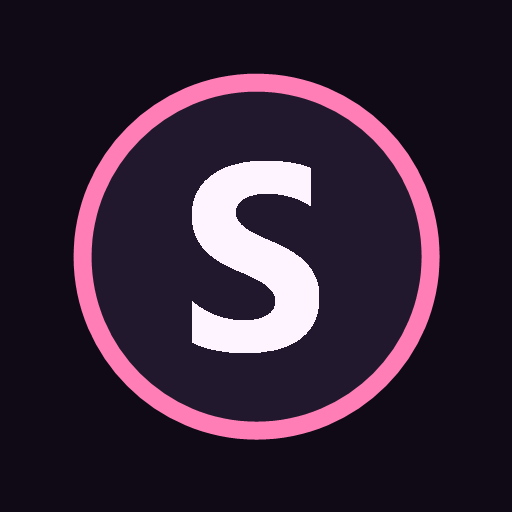
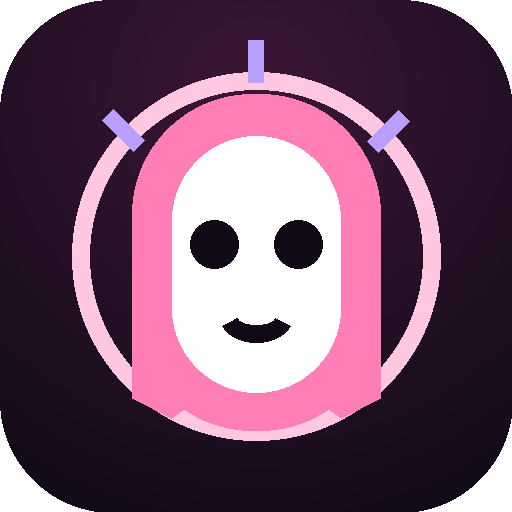
Rename to Spirits Night and polish selection UI

diff --git a/app.js b/app.js
@@ -170,7 +170,7 @@ function screen(kicker, title) {
   $app.textContent = "";
   const root = h("section", { className: "screen" });
   root.append(
-    h("div", { className: "brand", text: "SPIRITS" }),
+    h("div", { className: "brand", text: "SPIRITS NIGHT" }),
     h("div", { className: "kicker", text: kicker }),
     h("h1", { className: "title", text: title })
   );
@@ -304,7 +304,7 @@ function finishIntro() {
 
 function showIntro() {
   state = freshState();
-  const root = screen("κεντρικός συντονιστής", "Spirits");
+  const root = screen("κεντρικός συντονιστής", "Spirits Night");
   root.append(
     h("h2", { className: "title hero-title", text: "Game Master Mode" }),
     paragraph("Βάλε το iPad στη μέση. Ο πρώτος παίκτης που πεθαίνει γίνεται Game Master και από εδώ ελέγχει δολοφόνους, ειδικούς ρόλους, νύχτα και ψηφοφορίες.", "center"),
@@ -355,8 +355,9 @@ function showSetupCounts() {
 
 function showPlayerSelection() {
   const root = screen("επιλογή παρέας", "Ποιοι παίζουν;");
-  root.append(pill(`${state.gamePlayers.length} / ${state.playerCount} επιλεγμένοι`));
-  root.append(grid(roster.map(player => playerCard(player, {
+  const selectedCount = state.gamePlayers.length;
+  const ready = selectedCount === state.playerCount;
+  const selectionGrid = grid(roster.map(player => playerCard(player, {
     selected: inList(state.gamePlayers, player),
     onClick: () => {
       if (inList(state.gamePlayers, player)) removeFrom(state.gamePlayers, player);
@@ -364,11 +365,42 @@ function showPlayerSelection() {
       else return toast(`Έχεις ήδη διαλέξει ${state.playerCount} παίκτες.`);
       showPlayerSelection();
     }
-  }))));
-  root.append(actions(button("Συνέχεια", () => {
-    if (state.gamePlayers.length !== state.playerCount) return toast(`Διάλεξε ακριβώς ${state.playerCount} παίκτες.`);
-    showGameMasterSelection();
   })));
+  selectionGrid.classList.add("selection-grid");
+  root.append(h("section", { className: "selection-layout" }, [
+    h("aside", { className: "selection-control panel" }, [
+      h("div", { className: "label", text: "SETUP" }),
+      h("div", { className: "selection-count", text: `${selectedCount} / ${state.playerCount}` }),
+      h("div", { className: "selection-note", text: ready ? "Έτοιμο. Όλοι οι παίκτες επιλέχθηκαν." : `Διάλεξε ακόμα ${state.playerCount - selectedCount}.` }),
+      counterBlock("Παίκτες", state.playerCount, () => {
+        state.playerCount = Math.max(5, state.playerCount - 1);
+        while (state.gamePlayers.length > state.playerCount) state.gamePlayers.pop();
+        state.killerCount = Math.max(1, Math.min(state.killerCount, maxKillers()));
+        showPlayerSelection();
+      }, () => {
+        state.playerCount = Math.min(roster.length, state.playerCount + 1);
+        state.killerCount = Math.max(1, Math.min(state.killerCount, maxKillers()));
+        showPlayerSelection();
+      }),
+      counterBlock("Δολοφόνοι", state.killerCount, () => {
+        state.killerCount = Math.max(1, state.killerCount - 1);
+        showPlayerSelection();
+      }, () => {
+        const max = maxKillers();
+        if (state.killerCount >= max) return toast(`Maximum ${max} δολοφόνοι για ${state.playerCount} παίκτες.`);
+        state.killerCount += 1;
+        showPlayerSelection();
+      }, "var(--danger)"),
+      actions(button("Συνέχεια", () => {
+        if (state.gamePlayers.length !== state.playerCount) return toast(`Διάλεξε ακριβώς ${state.playerCount} παίκτες.`);
+        showGameMasterSelection();
+      }))
+    ]),
+    h("div", { className: "selection-list" }, [
+      pill(`${selectedCount} / ${state.playerCount} επιλεγμένοι`),
+      selectionGrid
+    ])
+  ]));
 }
 
 function showGameMasterSelection() {
@@ -507,7 +539,7 @@ function showDashboard() {
     button("Νύχτα", showNightStart),
     button("Ψηφοφορία ημέρας", startDayVoting, "secondary"),
     button("Χειροκίνητη αποχώρηση", showManualElimination, "secondary"),
-    button("Test voice", () => speak("Spirits voice test. Alex voted Billy."), "ghost")
+    button("Test voice", () => speak("Spirits Night voice test."), "ghost")
   ));
   addHistory(root);
 }
@@ -1023,7 +1055,7 @@ function showPlacements() {
     .reverse()
     .filter(entry => !finalPlayers.some(player => player.name === entry.name));
   const root = screen("placements", "Τελική κατάταξη");
-  root.append(h("div", { className: "placement-subtitle", text: "Spirits: Final Files" }));
+  root.append(h("div", { className: "placement-subtitle", text: "Spirits Night: Final Files" }));
   playSound(state.lastVictorySound || "spirits");
 
   const board = h("section", { className: "placements-board" });

diff --git a/styles.css b/styles.css
@@ -14,7 +14,7 @@
 * { box-sizing: border-box; -webkit-tap-highlight-color: transparent; }
 html, body { margin: 0; min-height: 100%; background: var(--bg); color: var(--ink); font-family: Inter, -apple-system, BlinkMacSystemFont, "Segoe UI", sans-serif; }
 body { padding: env(safe-area-inset-top) env(safe-area-inset-right) env(safe-area-inset-bottom) env(safe-area-inset-left); }
-button { font: inherit; }
+button { font: inherit; appearance: none; -webkit-appearance: none; touch-action: manipulation; }
 
 #app { min-height: 100svh; background: radial-gradient(circle at 50% 0%, rgba(255,126,182,.18), transparent 34%), var(--bg); }
 .screen {
@@ -23,7 +23,6 @@ button { font: inherit; }
   min-height: 100svh;
   margin: 0 auto;
   padding: 22px 18px 30px;
-  animation: fadeIn .28s ease both;
   overflow: hidden;
   isolation: isolate;
 }
@@ -103,7 +102,6 @@ button { font: inherit; }
 
 .actions { display: grid; gap: 12px; margin-top: 14px; }
 .btn { position: relative; overflow: hidden; width: 100%; min-height: 52px; border: 0; border-radius: 14px; padding: 12px 16px; font-weight: 900; color: #1f0f1d; background: var(--pink); box-shadow: 0 10px 22px var(--shadow); }
-.btn:active { transform: scale(.98); }
 .btn.secondary { color: var(--ink); background: var(--panel2); border: 1px solid var(--lilac); }
 .btn.ghost { color: var(--muted); background: transparent; border: 1px solid var(--panel2); box-shadow: none; }
 .counter { margin: 14px 0; }
@@ -111,6 +109,16 @@ button { font: inherit; }
 .counter-number { margin: 8px 0 10px; padding: 14px 0; text-align: center; font-size: 52px; font-weight: 900; border-radius: 18px; background: var(--panel); border: 1px solid currentColor; }
 .counter-controls { display: flex; justify-content: center; gap: 10px; }
 .small { width: 56px; min-height: 46px; border-radius: 12px; border: 1px solid var(--lilac); background: var(--panel2); color: var(--ink); font-size: 24px; font-weight: 900; }
+
+.selection-layout { display: grid; grid-template-columns: minmax(230px, 300px) minmax(0, 1fr); gap: 12px; align-items: start; }
+.selection-control { position: sticky; top: max(12px, env(safe-area-inset-top)); margin: 10px 0; border-color: rgba(255,126,182,.5); background: linear-gradient(180deg, rgba(54,37,68,.94), rgba(34,24,45,.94)); }
+.selection-control .label { color: var(--pink); font-size: 12px; font-weight: 900; letter-spacing: .1em; }
+.selection-control .counter { margin: 12px 0; }
+.selection-control .counter-number { font-size: 38px; padding: 10px 0; }
+.selection-count { margin-top: 8px; font-size: clamp(42px, 10vw, 64px); line-height: .95; font-weight: 1000; color: var(--mint); text-align: center; text-shadow: 0 0 22px rgba(137,238,196,.28); }
+.selection-note { min-height: 38px; margin: 8px 0 10px; color: var(--muted); text-align: center; font-weight: 850; line-height: 1.25; }
+.selection-list { min-width: 0; }
+.selection-grid { grid-template-columns: repeat(2, minmax(0, 1fr)); }
 
 .grid { display: grid; grid-template-columns: repeat(2, minmax(0, 1fr)); gap: 10px; margin: 10px 0; }
 @media (min-width: 760px) { .grid { grid-template-columns: repeat(3, minmax(0, 1fr)); } }
@@ -205,6 +213,15 @@ button { font: inherit; }
   .placement-card img { width: min(14vw, 128px); }
 }
 
+@media (min-width: 900px) {
+  .selection-grid { grid-template-columns: repeat(3, minmax(0, 1fr)); }
+}
+
+@media (max-width: 720px) {
+  .selection-layout { grid-template-columns: 1fr; }
+  .selection-control { position: relative; top: auto; }
+}
+
 #toast { position: fixed; left: 50%; bottom: max(18px, env(safe-area-inset-bottom)); transform: translateX(-50%) translateY(18px); max-width: min(92vw, 520px); padding: 12px 16px; border-radius: 999px; background: rgba(20, 12, 28, .94); color: var(--ink); box-shadow: 0 16px 34px var(--shadow); opacity: 0; pointer-events: none; transition: .2s ease; z-index: 20; text-align: center; }
 #toast.show { opacity: 1; transform: translateX(-50%) translateY(0); }
 #rotate-lock { display: none; position: fixed; inset: 0; z-index: 50; place-items: center; padding: 28px; background: #100a17; color: var(--ink); text-align: center; }
@@ -216,7 +233,6 @@ button { font: inherit; }
   #rotate-lock { display: grid; }
 }
 
-@keyframes fadeIn { from { opacity: 0; } to { opacity: 1; } }
 @keyframes rise { from { opacity: 0; transform: translateY(10px); } to { opacity: 1; transform: translateY(0); } }
 @keyframes glideUp { from { opacity: 0; transform: translateY(24px) scale(.94); filter: blur(5px); } to { opacity: 1; transform: translateY(0) scale(1); filter: blur(0); } }
 @keyframes popIn { from { opacity: 0; transform: scale(.96); } to { opacity: 1; transform: scale(1); } }

diff --git a/index.html b/index.html
@@ -5,9 +5,9 @@
   <meta name="viewport" content="width=device-width, initial-scale=1, viewport-fit=cover">
   <meta name="theme-color" content="#100a17">
   <meta name="apple-mobile-web-app-capable" content="yes">
-  <meta name="apple-mobile-web-app-title" content="Spirits">
+  <meta name="apple-mobile-web-app-title" content="Spirits Night">
   <meta name="apple-mobile-web-app-status-bar-style" content="black-translucent">
-  <title>Spirits</title>
+  <title>Spirits Night</title>
   <link rel="apple-touch-icon" href="apple-touch-icon.png">
   <link rel="apple-touch-icon" sizes="180x180" href="apple-touch-icon.png">
   <link rel="icon" href="icon.svg" type="image/svg+xml">

diff --git a/service-worker.js b/service-worker.js
@@ -1,4 +1,4 @@
-const CACHE_NAME = "spirits-pwa-v8";
+const CACHE_NAME = "spirits-pwa-v9";
 const ASSETS = [
   "./",
   "./index.html",